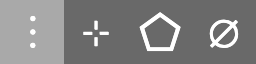
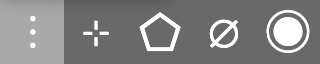
updated documentation

diff --git a/static/js/render.js b/static/js/render.js
@@ -121,6 +121,7 @@ function initCanvas(mo) {
       case 'l':
       case 'L':
         byId('high-btn').click();
+        break;
       case 'p':
       case 'P':
         byId('screenshot-btn').click();

diff --git a/README.md b/README.md
@@ -13,13 +13,13 @@ Please check out this [live demo](https://qiyunlab.github.io/binarena/demo.html)
 
 ## Contents
 
-- [Installation](#noinstallation) | [Main interface](#main-interface) | [System requirements](#system-requirements) | [Mouse and keyboard shortcuts](#mouse-and-keyboard-shortcuts)
-- [Input files](#input-files): [Data table](#data-table) | [Table view](#table-view) | [Special columns](#special-columns) | [Additional data](#additional-data)
-- [Display items](#display-items): [Legends and data scaling](#legends-and-data-scaling) | [Data transformation](#data-transformation) | [Color coding](#color-coding)
-- [Contig selection](#contig-selection) | [Contig summary](#contig-summary) | [Contig masking](#contig-masking) | [Contig searching](#contig-searching) | [Mini plot](#mini-plot)
-- [Binning plan](#binning-plan) | [Table of bins](#table-of-bins) | [From selection to bin](#from-selection-to-bin)
-- [Binning confidence evaluation](#binning-confidence-evaluation) | [Binning plan comparison](#binning-plan-comparison)
-- [FAQ](#faq) | [Contact](#contact)
+- [Installation](#noinstallation) | [main interface](#main-interface) | [system requirements](#system-requirements) | [mouse and keyboard shortcuts](#mouse-and-keyboard-shortcuts)
+- [Input files](#input-files): [data table](#data-table) | [table view](#table-view) | [special columns](#special-columns) | [additional data](#additional-data)
+- [Display items](#display-items): [legends and data scaling](#legends-and-data-scaling) | [data transformation](#data-transformation) | [color coding](#color-coding)
+- [Contig selection](#contig-selection) | [masking](#contig-masking) | [highlighting](#contig-highlighting) | [summary](#contig-summary) | [search](#contig-searching) | [mini plot](#mini-plot)
+- [Binning plan](#binning-plan) | [table of bins](#table-of-bins) | [from selection to bin](#from-selection-to-bin)
+- [Binning confidence evaluation](#binning-confidence-evaluation) | [binning plan comparison](#binning-plan-comparison)
+- [FAQ](#faq) | [contact](#contact)
 
 
 ## (No)Installation
@@ -58,7 +58,7 @@ The BinaRena interface is like a [**digital map**](https://www.google.com/maps) 
 - Click a contig to **select** it. Hold `Shift` and click to select multiple contigs.
 - Click a selected contig to unselect it. Hold `Shift` and click to unselect multiple contigs.
 - Press `Enter` to enter **polygon selection** mode. Then use mouse clicks to draw a polygon to contain multiple contigs. Press `Enter` again to complete selection. Hold `Shift` while pressing the second `Enter` to add contigs to the existing selection.
-- Press `Delete` or `Backspace` to **mask** selected contigs.
+- Press `Delete` or `Backspace` to **mask** selected contigs. Presee `L` to **highlight** selected contigs.
 - Press `Space` to **create a new bin** from selected contigs.
 - Click a **bin name** to select it and all member contigs. Click it again to edit its name. Hold Shift and click to select multiple bins.
 - Press `.` (`>`) to **add** selected contigs to the current bin, press `,` (`<`) to **remove** selected contigs from the current bin, press `/` to **update** the current bin with selected contigs (i.e., replace its content).
@@ -173,13 +173,35 @@ In the interactive scatter plot, one can simple click circles (**contigs**) to s
 
 A more efficient may is to press `Enter` or click the <span style="background-color: lightgrey">&#11040;</span> button in the corner to enter the **polygon** selection mode.
 
-<img src="docs/img/widgets.png" width="128">
+<img src="docs/img/widgets.png" width="160">
 
 Then one can click on the plot to draw a polygon to contain contigs of interest. When done, press `Enter` again and these contigs will be selected.
 
 <img src="docs/img/polyogn.png" width="304">
 
 Hold `Shift` when finishing selection will add the contigs to the current selection.
+
+
+## Contig masking
+
+One can press the `Delete` key or click the <span style="background-color: lightgrey">&empty;</span> button in the corner to **mask** currently selected contigs. These contigs will disappear from the plot. They will also be excluded from subsequent operations (e.g., they cannot be selected, nor can they influence calculation of metrics). This function is useful for cloaking unwanted contigs during binning.
+
+<img src="docs/img/mask.png" width="271">
+
+The masked contigs are not deleted from the dataset. They can be released back to the view by clicking the <span style="background-color: lightgrey">&times;</span> button next to the masked number.
+
+- Note that masked contigs will not be immediated deleted from bins. One can click the <span style="background-color: lightgrey">&empty;</span> button in the bin table toolbar to remove masked contigs from all bins.
+
+
+## Contig highlighting
+
+One can press the `L` key or click the <span style="background-color: lightgrey">&#9673;</span> button in the corner to **highlight** currently selected contigs. Moreover, one may select one of multiple highlight colors from the menu.
+
+<img src="docs/img/highlight.png" width="350">
+
+The highlight will stay with the contigs no matter how the layout and display items change, until the user click the <span style="background-color: lightgrey">&times;</span> button next to each color to release them.
+
+Highlighting will not affect binning, search, calculation and operations. It serves as a visual annotation of contigs to make them noticeable to the user.
 
 
 ## Contig summary
@@ -193,17 +215,6 @@ When multiple contigs are selected, the displayed value of **numeric** fields is
 For **categorical** columns, the displayed category is the **majority-rule** category, if there are multiple options (i.e., the selected contigs are a mixture), determined by weighting against the contig length (one can tweak this). The relative frequency of the main category is displayed in the parentheses. If no category is over half, the row will be displayed as "ambiguous", while the most frequent category can be found in the tooltip during mouse hovering.
 
 One may click the <span style="background-color: lightgrey">&#9684;</span> button in each row to display a histogram of the distribution of this variable in a [mini plot](#mini-plot).
-
-
-## Contig masking
-
-One may press the `Delete` key or click the <span style="background-color: lightgrey">&empty;</span> button in the corner to **mask** currently selected contigs. These contigs will disappear from the plot. They will also be excluded from subsequent operations (e.g., they cannot be selected, nor can they influence calculation of metrics). This function is useful for cloaking unwanted contigs during binning.
-
-<img src="docs/img/mask.png" width="271">
-
-The masked contigs are not deleted from the dataset. They can be released back to the view by clicking the <span style="background-color: lightgrey">&times;</span> button next to the masked number.
-
-Note that masked contigs will not be immediated deleted from bins. One can click the <span style="background-color: lightgrey">&empty;</span> button in the bin table toolbar to remove masked contigs from all bins.
 
 
 ## Contig searching
@@ -283,7 +294,7 @@ Before pressing "done", one may check "save result to field" to save the calcula
 
 One may also check "export result to file" to save the results (contig IDs, bin assignments and silhouette coefficients) to a TSV file.
 
-- Be warned not to over-intepret silhouette coefficient. It is a widely-used metric for [cluster analysis evaluation](https://en.wikipedia.org/wiki/Cluster_analysis#Evaluation_and_assessment). However, other biological factors may also be important in the task of binning.
+- Be warned not to over-interpret silhouette coefficient. It is a widely-used metric for [cluster analysis evaluation](https://en.wikipedia.org/wiki/Cluster_analysis#Evaluation_and_assessment). However, other biological factors may also be important in the task of binning.
 
 
 ## Binning plan comparison
